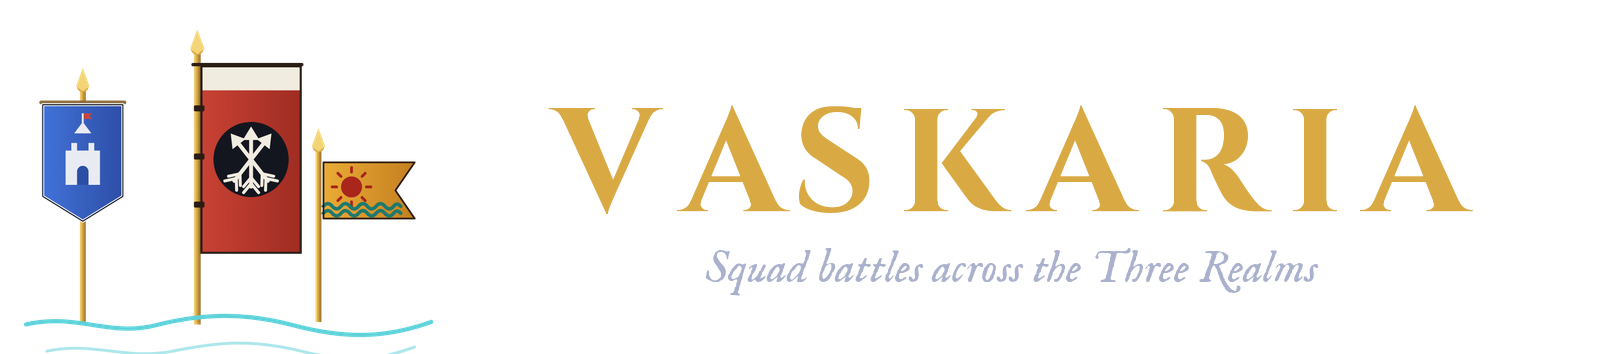
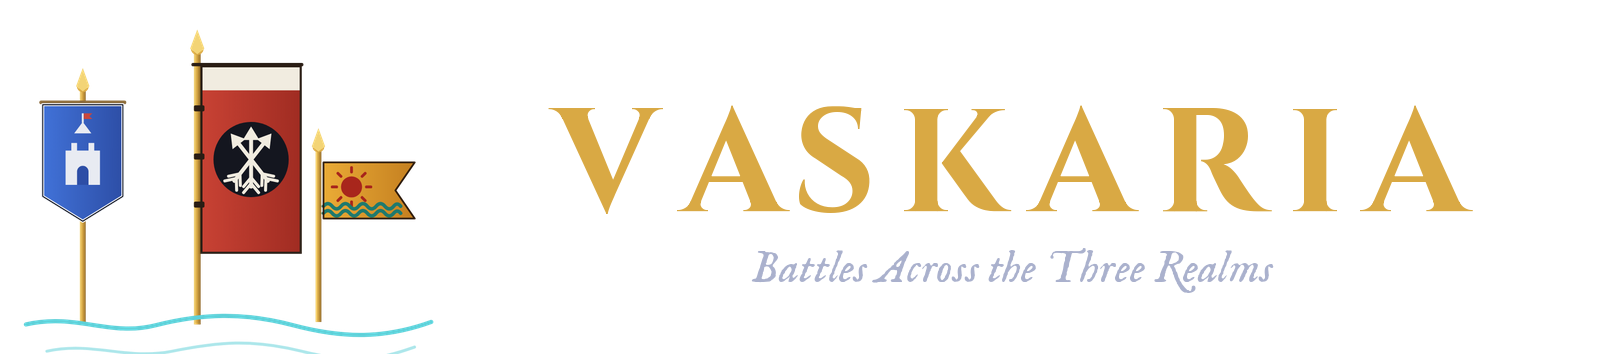
Tagline: "Battles Across the Three Realms"
Drops "Squad" from the line under the name: in the logo (redrawn on the
same baseline in the same lettering) and in the trailer cards' lockup.

Claude-Session: https://claude.ai/code/session_01XvgEaynwvJ5LwK3YxENzf9

Changed region(s): [[0.4375, 0.6836, 0.8438, 0.839]]

diff --git a/tools/trailer2/cut.py b/tools/trailer2/cut.py
@@ -317,7 +317,7 @@ def wordmark(width):
 # a glint that crosses the name on the music.
 
 TITLE_WORD = "VASKARIA"
-TAGLINE = "Squad battles across the Three Realms"
+TAGLINE = "Battles Across the Three Realms"
 NAME_PAD = 60  # room round the name's letters for its glow and shadow
 
 

diff --git a/docs/trailer-cards-plan.md b/docs/trailer-cards-plan.md
@@ -92,7 +92,7 @@ stacked and centred:
 | --- | --- | --- |
 | Emblem | crop `(0, 0, 452, 354)` of `wordmark.png` (the three banners and the water) | resized to 565×442 (LANCZOS) |
 | Name | the word `VASKARIA`, Cinzel Bold | size 230, 30 px between letters |
-| Tagline | `Squad battles across the Three Realms`, IM Fell English Italic | size 58, colour (214, 218, 236) |
+| Tagline | `Battles Across the Three Realms`, IM Fell English Italic | size 58, colour (214, 218, 236) |
 
 Vertical gaps: 34 px emblem to name, 26 px name to tagline. Also return (or cache beside
 it) the **name's alpha mask** placed in the lockup's coordinates: package 3 needs it.
